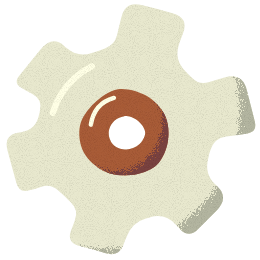
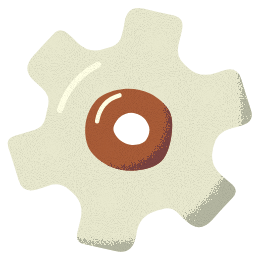
Home tiles: tile-coloured shadows, dimmer glint, a centred symmetric cog
Casual, Daily and Ranked cast a darker shade of their own colour; the glint is about half as bright; the cog has even teeth and is cropped around its hub.

diff --git a/packages/web/src/styles.css b/packages/web/src/styles.css
@@ -68,7 +68,7 @@
   --tile-text: var(--c-bright);
   /* Home tiles: a crisp drop under each, and a brushed glint along the top. */
   --tile-shadow: color-mix(in srgb, var(--c-bg), black 22%);
-  --tile-glint: color-mix(in srgb, var(--c-bright) 22%, transparent);
+  --tile-glint: color-mix(in srgb, var(--c-bright) 13%, transparent);
   /* Dark home: the profile card is a dark Highlight surface with light text (Figma update). */
   --profile-bg: var(--c-highlight-2);
   --profile-text: var(--c-bright);
@@ -142,7 +142,7 @@
   --tile: var(--c-mud);
   --tile-text: var(--c-crimson);
   --tile-shadow: color-mix(in srgb, var(--c-rock) 45%, transparent);
-  --tile-glint: color-mix(in srgb, var(--c-bright) 80%, transparent);
+  --tile-glint: color-mix(in srgb, var(--c-bright) 42%, transparent);
   --profile-bg: var(--c-second-bright);
   --profile-text: var(--c-crimson);
   --chip-bg: rgba(38, 39, 33, 0.07);
@@ -710,6 +710,16 @@ html[data-reduce-motion] .welcome.flipping .welcome-art {
 .tile,
 .profile-card {
   box-shadow: 0 2px 0 var(--tile-shadow);
+}
+/* The coloured mode tiles cast a deeper shade of their own colour, not grey. */
+.area-casual {
+  --tile-shadow: color-mix(in srgb, var(--c-forest), black 30%);
+}
+.area-daily {
+  --tile-shadow: color-mix(in srgb, var(--c-crimson), black 30%);
+}
+.area-ranked {
+  --tile-shadow: color-mix(in srgb, var(--c-lava), black 30%);
 }
 /* A thin brushed glint right on the top edge (between the corner curves): one hand-drawn stroke that swells and
    thins (the mask), not a ruled line. */
